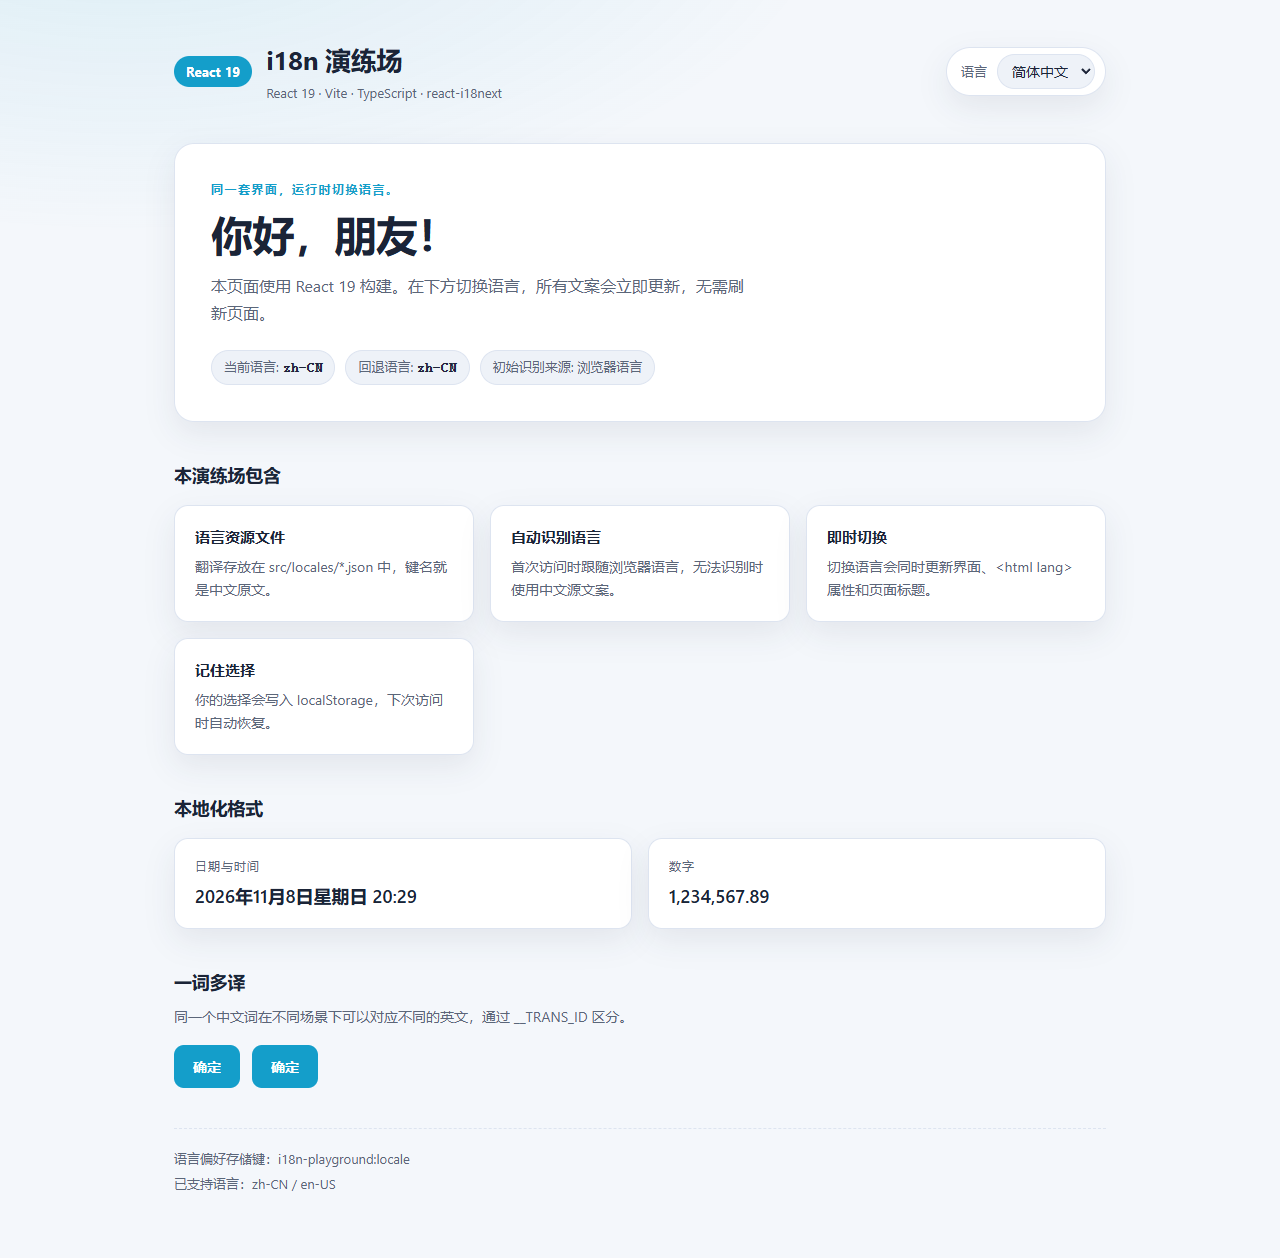
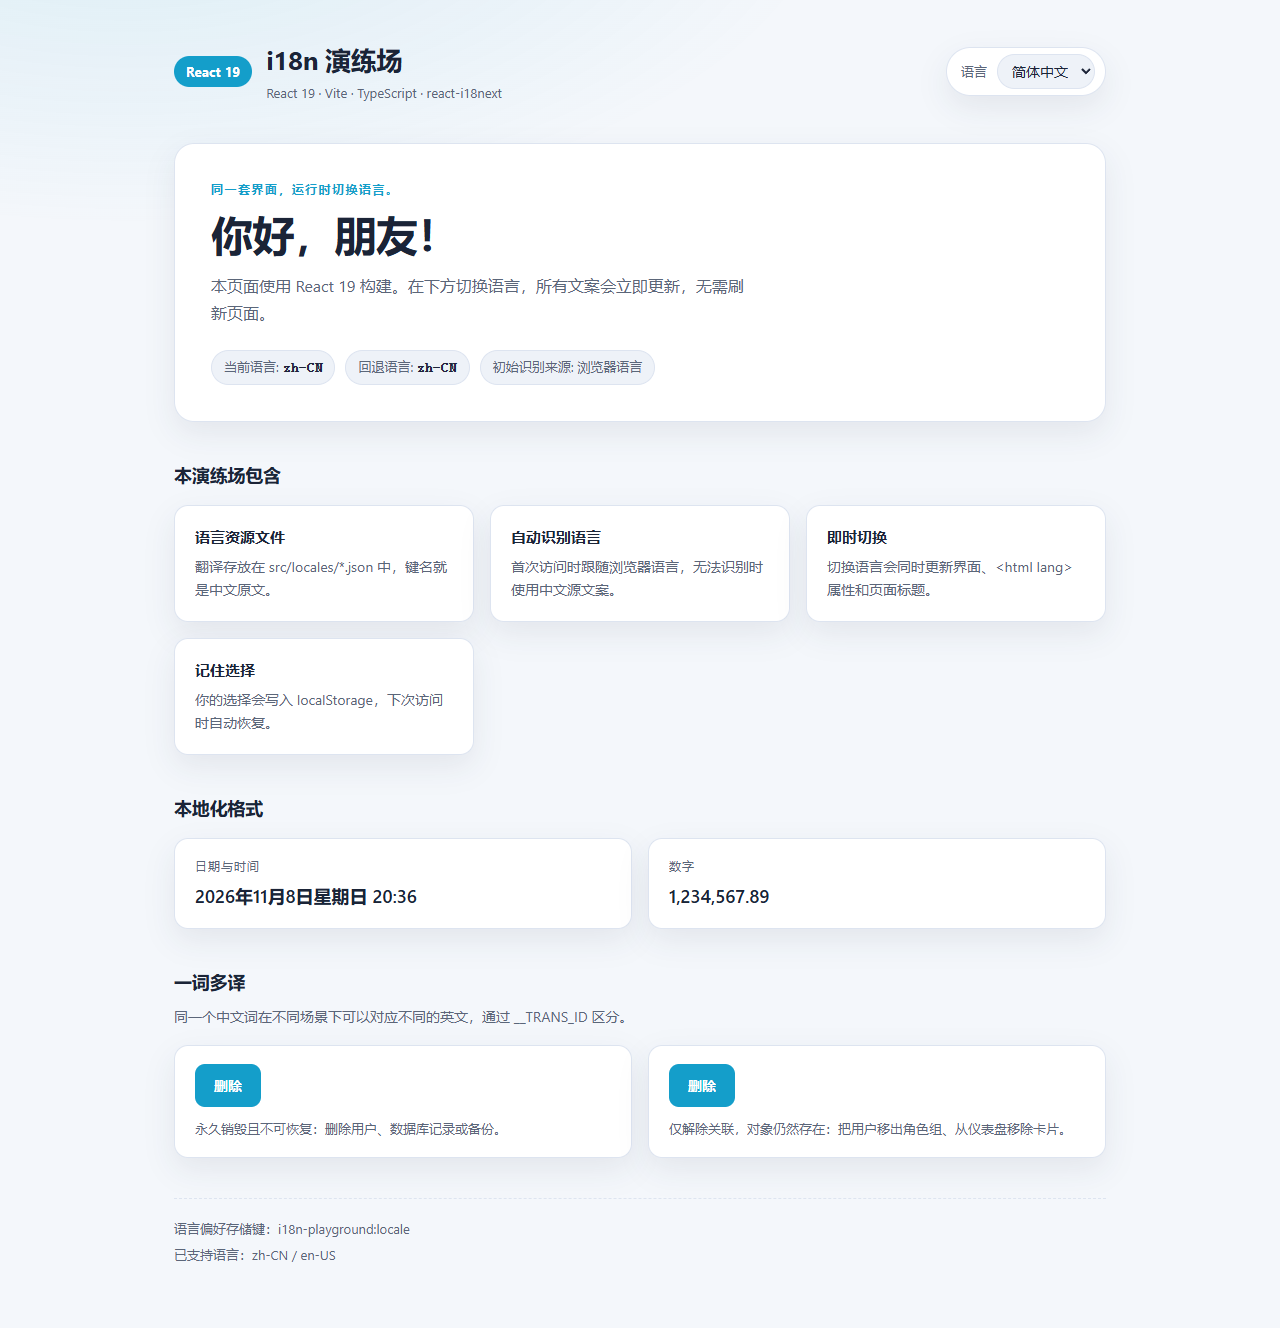
feat(react): use delete/remove as the one-source-multiple-translations demo
- replace 确认/Confirm/OK demo with the more accurate 删除 / Delete vs Remove case
- zh-CN keeps 删除 as the shared Chinese source; en-US maps __TRANS_ID_delete/__TRANS_ID_remove
- add per-context captions explaining irreversible deletion vs removing an association
- update i18n doc comment, README and preview screenshots

diff --git a/playground/react/src/App.tsx b/playground/react/src/App.tsx
@@ -100,12 +100,22 @@ export default function App() {
             {t('同一个中文词在不同场景下可以对应不同的英文，通过 __TRANS_ID 区分。')}
           </p>
           <div className="demo-actions">
-            <button type="button" className="demo-button">
-              {t('确定', { __TRANS_ID: 'action' })}
-            </button>
-            <button type="button" className="demo-button">
-              {t('确定', { __TRANS_ID: 'ack' })}
-            </button>
+            <div className="demo-item">
+              <button type="button" className="demo-button">
+                {t('删除', { __TRANS_ID: 'delete' })}
+              </button>
+              <p className="demo-caption">
+                {t('永久销毁且不可恢复：删除用户、数据库记录或备份。')}
+              </p>
+            </div>
+            <div className="demo-item">
+              <button type="button" className="demo-button">
+                {t('删除', { __TRANS_ID: 'remove' })}
+              </button>
+              <p className="demo-caption">
+                {t('仅解除关联，对象仍然存在：把用户移出角色组、从仪表盘移除卡片。')}
+              </p>
+            </div>
           </div>
         </section>
       </main>

diff --git a/playground/react/src/i18n/index.ts b/playground/react/src/i18n/index.ts
@@ -17,10 +17,11 @@ import zhCN from '../locales/zh-CN.json'
  *   { "你好": "hello" }
  *
  * 同一个中文原文在不同场景需要不同译文时，调用时传入 `__TRANS_ID`，
- * 实际查找的键会变成 `<中文原文>__TRANS_ID_<id>`：
+ * 实际查找的键会变成 `<中文原文>__TRANS_ID_<id>`。例如中文都叫「删除」，
+ * 英文却要区分永久销毁的 delete 与仅解除关联的 remove：
  *
- *   t('确认', { __TRANS_ID: '1' })  ->  { "确认__TRANS_ID_1": "ok" }
- *   t('确认', { __TRANS_ID: '2' })  ->  { "确认__TRANS_ID_2": "yes" }
+ *   t('删除', { __TRANS_ID: 'delete' })  ->  { "删除__TRANS_ID_delete": "Delete" }
+ *   t('删除', { __TRANS_ID: 'remove' })  ->  { "删除__TRANS_ID_remove": "Remove" }
  *
  * 目标语言缺少 `<原文>__TRANS_ID_<id>` 时回退到基础中文文案；源语言（zh-CN）
  * 始终直接展示中文原文，不会查找带 `__TRANS_ID` 的键。

diff --git a/playground/react/src/index.css b/playground/react/src/index.css
@@ -256,9 +256,25 @@ body {
 }
 
 .demo-actions {
-  display: flex;
-  flex-wrap: wrap;
-  gap: 12px;
+  display: grid;
+  gap: 16px;
+  grid-template-columns: repeat(auto-fit, minmax(260px, 1fr));
+  align-items: start;
+}
+
+.demo-item {
+  padding: 18px 20px;
+  background: var(--surface);
+  border: 1px solid var(--border);
+  border-radius: var(--radius);
+  box-shadow: var(--shadow);
+}
+
+.demo-caption {
+  margin: 12px 0 0;
+  font-size: 13px;
+  line-height: 1.6;
+  color: var(--text-muted);
 }
 
 .demo-button {

diff --git a/README.md b/README.md
@@ -96,13 +96,14 @@ React 应用采用「中文原文即 key」的方案：
 { "你好": "hello" }
 ```
 
-同一个中文原文在不同场景需要不同译文时，调用时传入 `__TRANS_ID`：
+同一个中文原文在不同场景需要不同译文时，调用时传入 `__TRANS_ID`。例如中文都叫「删除」，
+英文却必须区分永久销毁的 delete 与仅解除关联的 remove——后台按钮混用会直接误导用户：
 
 ```ts
 const { t } = useI18n()
 
-t('确认', { __TRANS_ID: '1' }) // → en-US.json: { "确认__TRANS_ID_1": "ok" }
-t('确认', { __TRANS_ID: '2' }) // → en-US.json: { "确认__TRANS_ID_2": "yes" }
+t('删除', { __TRANS_ID: 'delete' }) // → en-US.json: { "删除__TRANS_ID_delete": "Delete" }
+t('删除', { __TRANS_ID: 'remove' }) // → en-US.json: { "删除__TRANS_ID_remove": "Remove" }
 ```
 
 规则与约束：
@@ -114,7 +115,11 @@ t('确认', { __TRANS_ID: '2' }) // → en-US.json: { "确认__TRANS_ID_2": "yes
 - `t()` 的入参在编译期被约束为 `zh-CN.json` 中存在的键；`en-US.json` 中若出现不属于
   中文键、也不符合 `<中文键>__TRANS_ID_<id>` 格式的键，同样会直接类型报错。
 - React 页面底部的「一词多译」区块就是 `__TRANS_ID` 的实时演示：
-  中文下两个按钮都显示「确定」，英文下分别显示 `Confirm` / `OK`。
+  中文下两个按钮都显示「删除」，英文下分别显示 `Delete` / `Remove`，并各自附上语义说明。
+
+英文界面中同一区块的渲染效果：
+
+![React 英文界面中的 delete / remove](docs/react-delete-remove-en.png)
 
 ### 新增一种语言
 
